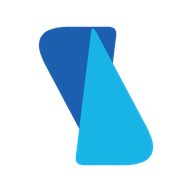
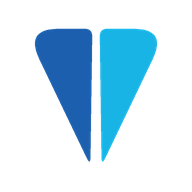
BOGO 로고·파비콘 도입 + 기억보관소 UI 대시보드 일치화
- 첨부 M/나비형 로고를 흰테두리 없는 투명 SVG 벡터로 재현(navy+cyan 좌우대칭)
- 파비콘 풀세트 생성(svg/png 16·32·180·192·512·ico) + 정적 서빙 라우트(traversal 차단)
- 로그인·사이드바·보관소 헤더에 로고, 3개 head에 favicon 링크 적용
- 보관소 페이지를 대시보드와 동일한 사이드바 SaaS 셸로 재구성
- 사이드바 nav로 대시보드↔보관소 양방향 이동 명확화(기능·권한 보존)

Changed region(s): [[0.1562, 0.125, 0.8438, 0.875]]

diff --git a/app/static/build_assets.py b/app/static/build_assets.py
@@ -19,17 +19,18 @@ CYAN = (24, 180, 230)   # #18B4E6
 HEX_NAVY = "#1C5FAE"
 HEX_CYAN = "#18B4E6"
 
-# ── 점대칭(180° 회전) 풍차/나비형 (100x100 viewBox) ──────────────────────────
-# 좌측 navy 삼각형: 좌상단 코너가 크게 둥글다. 윗변 수평. 뾰족점은 아래(중앙 하단).
-#   꼭짓점 순회(시계방향):  TL(좌상단·큰 라운드) → TR(윗변 우측 끝) → BP(아래 뾰족점)
-# 우측 cyan 삼각형: 위 도형을 중심(50,50) 기준 180° 회전(x,y)->(100-x,100-y).
-#   → 우하단 코너가 크게 둥글고 위로 뾰족. navy 아래뾰족 / cyan 위뾰족이 어긋나 맞물림.
-# 결과: 좌상-우하 대각선 색경계의 M/나비/풍차. 좌우대칭 V 아님(점대칭).
+# ── 좌우 거울대칭(수직축 x→100-x) M/나비형 (100x100 viewBox) ──────────────────
+# 좌측 navy 삼각형: 좌상단 코너가 크게 둥근 라운드. 윗변 수평(좌상단 → 중앙 상단).
+#   아래로 좁아져 뾰족점이 중앙 하단을 향함 — "좌상단 둥글고 아래로 뾰족".
+#   꼭짓점 순회:  TL(좌상단·큰 라운드) → TC(윗변 우측 끝=중앙 상단) → BP(아래 뾰족점)
+# 우측 cyan 삼각형: navy 를 수직축(x→100-x) 거울 반전 → 우상단 코너가 크게 둥글고
+#   역시 아래로 뾰족. 두 도형 모두 위쪽 바깥 어깨가 둥글고 아래 중앙에서 V로 만난다.
+# 결과: 위 = 좌·우 둥근 두 어깨 + 그 사이 거의 평평한 윗변, 아래 = 얕은 V. 완전 좌우대칭.
 # 각 꼭짓점 = (좌표, 라운드반경). 라운드는 해당 코너에만 적용.
 L_TRI = [
-    ((13.0, 14.0), 23.0),   # TL 좌상단 — 크게 둥근 라운드
-    ((61.0, 14.0), 4.5),    # TR 윗변 우측 끝 — 소량 라운드
-    ((52.0, 87.0), 4.0),    # BP 아래 뾰족점 — 소량 라운드
+    ((13.0, 15.0), 23.0),   # TL 좌상단 — 크게 둥근 라운드
+    ((48.0, 15.0), 4.0),    # TC 윗변 우측 끝(중앙 상단) — 소량 라운드
+    ((47.0, 86.0), 4.0),    # BP 아래 뾰족점(중앙 하단) — 소량 라운드
 ]
 
 
@@ -38,9 +39,9 @@ def _norm(vx, vy):
     return (vx / d, vy / d) if d else (0.0, 0.0)
 
 
-def _point_sym(pt):
-    """중심(50,50) 기준 180° 회전 점대칭."""
-    return (100.0 - pt[0], 100.0 - pt[1])
+def _mirror(pt):
+    """수직 중심축(x=50) 기준 좌우 거울 반전 — 좌우대칭 M/나비를 만든다."""
+    return (100.0 - pt[0], pt[1])
 
 
 def _rounded_quad_pts(corner, p_prev, p_next, radius):
@@ -98,7 +99,7 @@ def _tri_polygon(verts, seg=24):
 
 
 def _right_verts():
-    return [(_point_sym(p), r) for (p, r) in L_TRI]
+    return [(_mirror(p), r) for (p, r) in L_TRI]
 
 
 def left_triangle_path():
